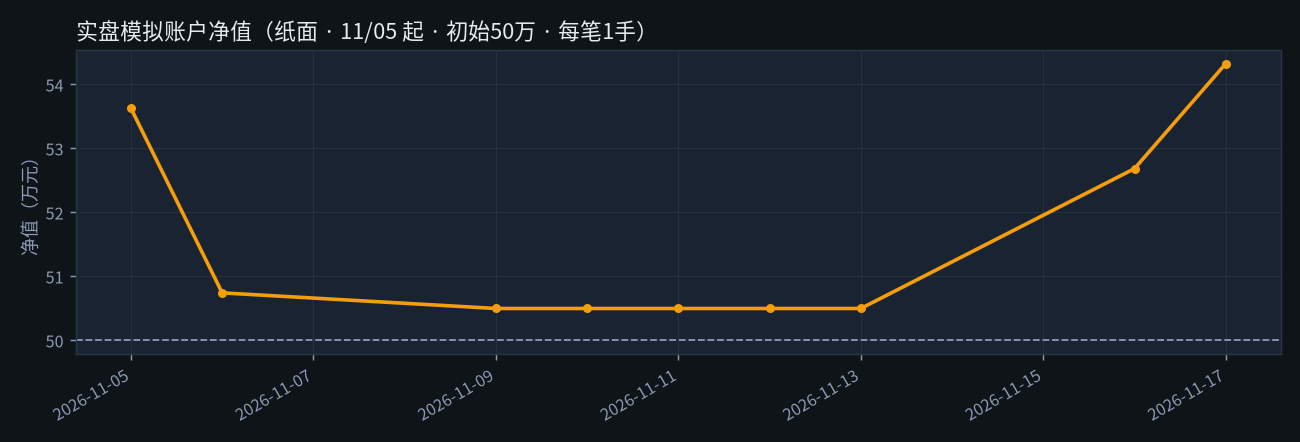
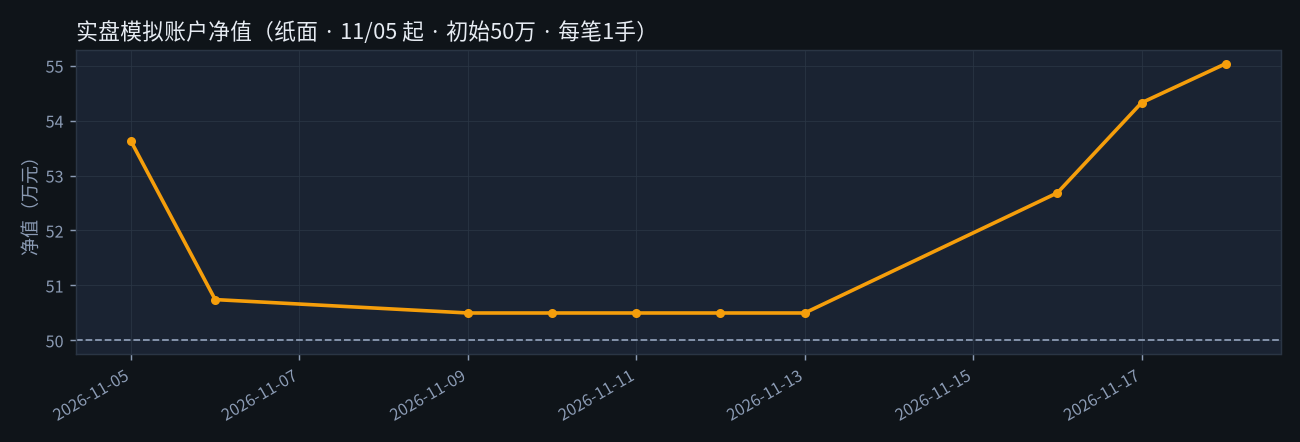
daily: 2026-11-18

diff --git a/reports/2026-11-18.html b/reports/2026-11-18.html
@@ -1,0 +1,182 @@
+<!doctype html>
+<html lang="zh-CN"><head><meta charset="utf-8"><meta name="viewport" content="width=device-width,initial-scale=1">
+<title>2026-11-18 · 股指期货量化系统每日复盘</title>
+<style>:root{
+  --bg:#0f1419;--card:#1a2332;--border:#2a3544;--text:#e7ecf3;--muted:#8b9bb4;
+  --accent:#3b82f6;--ok:#22c55e;--ok-bg:#12261c;--ok-bd:#1e4d36;
+  --watch:#f59e0b;--watch-bg:#2a2110;--watch-bd:#5c4518;
+  --danger:#ef4444;--table-head:#151c27;
+}
+*{box-sizing:border-box}
+body{
+  margin:0;font-family:-apple-system,BlinkMacSystemFont,"Segoe UI","PingFang SC","Hiragino Sans GB","Microsoft YaHei",sans-serif;
+  background:var(--bg);color:var(--text);line-height:1.65;font-size:15.5px;
+}
+.wrap{max-width:820px;margin:0 auto;padding:24px 16px 56px}
+a{color:var(--accent)}
+.topnav{margin-bottom:18px;font-size:.9rem}
+.topnav a{text-decoration:none}
+header h1{font-size:1.45rem;margin:0 0 6px;font-weight:700}
+header .sub{color:var(--muted);margin:0 0 14px;font-size:.92rem}
+.badge{
+  display:inline-block;padding:3px 10px;border-radius:999px;font-size:.78rem;font-weight:650;
+  background:#1e3a5f;color:#93c5fd;margin-right:6px;
+}
+.disclaimer{
+  padding:12px 14px;border:1px solid var(--border);border-radius:10px;
+  background:#151c27;color:var(--muted);font-size:.88rem;margin-bottom:28px;
+}
+h2{
+  font-size:1.12rem;margin:32px 0 12px;padding-bottom:8px;
+  border-bottom:1px solid var(--border);font-weight:700;
+}
+h3{font-size:1rem;margin:20px 0 10px;font-weight:650}
+p,li{color:var(--text)}
+.muted{color:var(--muted)}
+.lead{font-size:.98rem;margin:0 0 16px}
+table{
+  width:100%;border-collapse:collapse;font-size:.9rem;margin:10px 0 16px;
+  background:var(--card);border-radius:10px;overflow:hidden;border:1px solid var(--border);
+}
+th,td{padding:10px 12px;text-align:left;border-bottom:1px solid var(--border);vertical-align:top}
+th{background:var(--table-head);color:var(--muted);font-weight:600;white-space:nowrap}
+tr:last-child td{border-bottom:none}
+td.num,th.num{text-align:right;font-variant-numeric:tabular-nums}
+.chart{
+  display:block;width:100%;max-width:100%;height:auto;border-radius:12px;
+  border:1px solid var(--border);margin:12px 0 8px;background:#111;
+}
+.cap{font-size:.8rem;color:var(--muted);margin:0 0 18px}
+.grid{display:grid;gap:14px}
+@media(min-width:640px){.grid-2{grid-template-columns:1fr 1fr}}
+.cmd{
+  border-radius:14px;padding:16px 16px 14px;border:1px solid var(--border);
+  background:var(--card);margin-bottom:14px;
+}
+.cmd.open{border-color:var(--ok-bd);background:linear-gradient(180deg,var(--ok-bg),var(--card))}
+.cmd.watch{border-color:var(--watch-bd);background:linear-gradient(180deg,var(--watch-bg),var(--card))}
+.cmd .head{display:flex;flex-wrap:wrap;align-items:center;gap:8px;margin-bottom:10px}
+.cmd .name{font-size:1.05rem;font-weight:700;margin:0}
+.pill{
+  font-size:.72rem;font-weight:700;padding:3px 8px;border-radius:999px;letter-spacing:.02em;
+}
+.pill.open{background:#14532d;color:#86efac}
+.pill.watch{background:#78350f;color:#fcd34d}
+.pill.alt{background:#1e3a5f;color:#93c5fd}
+.kv{width:100%;border:none;background:transparent;margin:0}
+.kv th,.kv td{border:none;border-bottom:1px dashed #2a3544;padding:8px 0;background:transparent}
+.kv th{width:5.5em;color:var(--muted);font-weight:600}
+.kv tr:last-child th,.kv tr:last-child td{border-bottom:none}
+.rules{
+  padding:14px 16px;border-radius:12px;border:1px solid var(--border);
+  background:var(--card);margin:10px 0;
+}
+.rules ul{margin:8px 0 0;padding-left:1.2em}
+.rules li{margin:6px 0}
+.evidence{
+  padding:14px 16px;border-radius:12px;border:1px solid #1e3a5f;
+  background:#121a28;margin:12px 0 18px;
+}
+.evidence h3{margin-top:0}
+footer{margin-top:36px;padding-top:14px;border-top:1px solid var(--border);color:var(--muted);font-size:.8rem}
+.strong{font-weight:650;color:#fff}
+.list{display:flex;flex-direction:column;gap:12px}
+.card{display:block;padding:16px 18px;border:1px solid var(--border);border-radius:12px;background:var(--card);text-decoration:none;color:inherit}
+.card:hover{border-color:var(--accent)}
+.card .date{font-size:.82rem;color:var(--accent);font-weight:600;margin-bottom:4px}
+.card .title{font-size:1.05rem;font-weight:650;margin:0 0 6px;border:none;padding:0}
+.card .meta{font-size:.88rem;color:var(--muted);margin:0}
+.tag{display:inline-block;font-size:.72rem;padding:2px 8px;border-radius:999px;background:#1e3a2f;color:#86efac;margin-left:8px}
+table{display:table}
+@media(max-width:600px){table{font-size:.82rem}th,td{padding:8px 6px}}
+</style></head><body><div class="wrap">
+<div class="topnav"><a href="../index.html">← 复盘首页</a></div>
+<header><h1>股指期货量化系统 · 每日复盘</h1>
+<p class="sub">交易日 <strong>2026-11-18（周三）</strong> · 下一交易日 <strong>2026-11-19（周四）</strong></p>
+<span class="badge">主策略 PF-K（IM）</span><span class="badge">纸面模拟账户运行中</span></header>
+<div class="disclaimer"><strong>免责声明</strong>：独立量化系统的研究复盘，仅供参考学习，不构成投资建议，不代下单。期货有杠杆，可能亏损超过预期，行动与盈亏由你本人承担。</div>
+
+<div class="cmd watch"><div class="head"><span class="pill watch">明日指令</span><h3 class="name">明天（2026-11-19（周四））不动，空仓观望</h3></div>
+<table class="kv"><tbody><tr><th>原因</th><td>今天的 zSAS = -0.34，没到 ±1.25 的触发线</td></tr></tbody></table></div>
+
+<h2>一、今天发生了什么</h2>
+<p class="lead">IM（中证1000股指期货主连）今天开 6060.0、最高 6098.0、最低 5915.0、收 <strong>5987.4</strong>，
+比昨天收盘 6023.0 <strong>跌 35.6 点（-0.59%）</strong>。开盘相对昨收 高开 37.0 点，盘中震荡走低，收阴线。</p>
+<div class="rules"><ul><li>今天平掉一笔空单（11-16 开 6215.0 → 今天 5987.4，时间退出），费后 +226.9 点 ≈ +45,384 元/手。</li></ul></div>
+<img class="chart" src="../assets/2026-11-18/im_price_z.png" alt="IM 近100日K线与zSAS">
+<p class="cap">上：IM 近 100 个交易日 K 线和系统历史开平仓点；下：每日 zSAS，越过虚线就出信号。</p>
+
+<h2>二、为什么出这个信号（白话版）</h2>
+<p>今天收盘后算出 <strong>zSAS = -0.34</strong>，在 ±1.25 之间，不触发。</p>
+<div class="rules"><ul>
+<li><b>它在看什么</b>：今天这根K线的涨跌，相对「平时一天能波动多少」（ATR）有多猛；同时扣掉「开盘跳空」那部分——靠隔夜跳空涨上去的不算数，盘中一路买上去的才算。</li>
+<li><b>怎么算</b>：SAS = 0.55 × 今日涨跌幅/ATR比例 − 0.35 × 异常跳空；再和过去 60 天比，变成 zSAS（高出平时几个标准差）。</li>
+<li><b>怎么用</b>：zSAS ≥ +1.25 → 今天涨得「比平常猛得多」且不是靠跳空 → 系统认为短期惯性会延续，次日开盘做多；≤ −1.25 反过来做空；中间不动。</li>
+<li><b>今天</b>：开盘只高开 37.0 点，涨幅主要是盘中走出来的，所以 zSAS 很高。</li>
+</ul></div>
+
+<h2>三、明天具体怎么挂单</h2>
+<p>规则只有一条：<b>次日开盘价成交</b>。所以明早 9:25 集合竞价或 9:30 开盘用市价/对价跟进即可；止损价按你的<b>实际成交价</b>算。</p>
+<p class="muted">明天没有新开仓指令。</p>
+<div class="evidence"><h3>执行提醒（执行建议，未回测）</h3><ul>
+<li>只在开盘这一刻跟；<b>开盘没成交就放弃本笔，不在盘中追高/追低挂天价单</b>。回测只验证过「开盘价成交」。</li>
+<li>止损单可在成交后立刻挂条件单（多单：最新价 ≤ 止损价 触发卖出平仓）。若开盘就跳空越过止损，按开盘价离场（回测同样处理）。</li>
+<li>第3天收盘前没止损，就在尾盘平掉；中间不加仓、不移动止损。</li>
+</ul></div>
+
+<h2>四、实盘模拟账户（11/5起）<span class="sub" style="font-size:.8em;font-weight:400"> · 纸面记账 · 初始50万 · 每笔1手</span></h2>
+<img class="chart" src="../assets/2026-11-18/ledger.png" alt="纸面账户净值曲线">
+<table><tbody>
+<tr><td>当前净值</td><td class="num"><strong>550,365 元</strong></td><td>收益率 <strong>+10.07%</strong> · 最大回撤 -5.83%</td></tr>
+<tr><td>已实现 / 浮动盈亏</td><td class="num">+50,365 / +0 元</td><td>已平仓 2 笔 · 胜率 100% · 已付费用滑点约 275 元</td></tr>
+</tbody></table>
+<table><thead><tr><th>状态</th><th>方向</th><th>开仓日/价</th><th>平仓日/价</th><th class="num">费用滑点(点)</th><th class="num">净盈亏(元)</th><th>说明</th></tr></thead><tbody>
+<tr><td>已平仓</td><td>多</td><td>2026-11-05 / 6423.0</td><td>2026-11-09 / 6448.6</td><td class="num">0.7</td><td class="num">+4,981</td><td>时间退出</td></tr>
+<tr><td>已平仓</td><td>空</td><td>2026-11-16 / 6215.0</td><td>2026-11-18 / 5987.4</td><td class="num">0.7</td><td class="num">+45,384</td><td>时间退出</td></tr>
+</tbody></table>
+<p class="cap">口径：只跟主策略 PF-K（IM，每笔 1 手）。成交价=日线开盘价/止损价/第3天收盘价；费用=开·平昨万0.23（平今万2.3）+ 往返滑点0.4点；持仓中的浮盈已预扣平仓费用。纸面记账，非真实成交。</p>
+
+<h2>五、历史成绩（样本外，费后）</h2>
+<img class="chart" src="../assets/2026-11-18/oos_equity.png" alt="样本外权益 vs 中证1000">
+<p class="cap">「样本外」= 2025-06-03 之后的数据，参数是在那之前就定死的，这段相当于「模拟实战」。图为 2手/100万 口径累计收益率，对比同期中证1000指数。</p>
+
+<table><thead><tr><th>指标（样本外 2025-06-03 → 2026-11-18，费后）</th><th class="num">回测口径 2手/100万</th><th class="num">重算 1手/50万</th></tr></thead><tbody>
+<tr><td>交易笔数 / 胜率</td><td class="num">46 笔 / 63.0%</td><td class="num">46 笔 / 63.0%</td></tr>
+<tr><td>累计盈利</td><td class="num">+58.0 万元</td><td class="num">+29.0 万元</td></tr>
+<tr><td>策略年化（单利口径）</td><td class="num">+39.8%</td><td class="num">+39.8%</td></tr>
+<tr><td>中证1000 同期年化</td><td class="num">-0.2%</td><td class="num">-0.2%</td></tr>
+<tr><td><strong>超额年化</strong>（策略−指数）</td><td class="num"><strong>+40.0%</strong></td><td class="num">+40.0%</td></tr>
+<tr><td>2025年（6/3起）：策略 / 指数 / 超额</td><td class="num" colspan="2">+33.6% / +25.1% / +8.4%</td></tr>
+<tr><td>2026年至今：策略 / 指数 / 超额</td><td class="num" colspan="2">+24.5% / -21.9% / +46.4%</td></tr>
+</tbody></table>
+<p class="cap">「1手/50万」是把同一批成交按 1 手、50万本金重算：金额减半、收益率相同（因为仓位和本金同比例缩小）。年化=总收益÷年数（单利）。
+数字由冻结参数实时重算。与存档 summary.json（2026-11-04）对照：存档 44 笔 / 胜率 61.4% / 超额年化 28.64%。</p>
+
+<h2>六、风险提示</h2>
+<div class="rules"><ul>
+<li><b>历史 ≠ 未来</b>：样本外只有 46 笔，统计上仍偏薄；任何一段连亏都可能发生。</li>
+<li><b>参数偏脆</b>：持有天数只有 H≈3 天附近站得住，邻域诊断里：持有 2 天时超额年化只剩约 +3%~+4%；持有 4–5 天虽然总数更好看，但 2025 年行情上涨段会明显跑输指数（攻防不再两全）。12 个邻近参数里只有 H=3 的 3 格「攻防两全」——所以严格按 3 天执行，不要自作主张拿更久或更短。</li>
+<li><b>单笔最大亏损</b>：止损 1.5×ATR = 322.2 点 × 200 元/点 ≈ <b>6.4 万元/手</b>（另加费用滑点；跳空越过止损时会更多）。50万账户单笔最坏约 12.9%。</li>
+<li>IM 一手合约价值约 120 万元（价格×200），保证金只占其中一部分，杠杆高，账户资金要留足以免被强平。</li>
+<li>不叠加：持仓期间出现的新信号不接；平仓当天出现的信号也不接（与回测一致）。</li>
+</ul></div>
+
+
+<h2>附：卫星策略 PF-K-IC（中证500股指期货 IC）</h2>
+<div class="rules"><p style="margin:0">同一套指标用在 IC 上，但参数单独冻结：阈值 ±1.5、止损 1.5×ATR、最多拿 5 天。<b>不计入上面的纸面模拟账户</b>，仅供对照。</p>
+<p style="margin:8px 0 0">今日 IC 收 6194.0（-0.8 点）。持空中：2026-11-16 开 6356.0，止损 6664.2，最晚 2026-11-20（周五） 收盘前平。</p>
+<p class="cap" style="margin:8px 0 0">样本外（2手/100万口径）：30 笔，胜率 60.0%，超额年化 vs 中证500 +22.1%。</p></div>
+
+<h2>七、术语小词典</h2>
+<table><tbody>
+<tr><td>ATR</td><td>平均真实波幅（14日），代表「这个品种平时一天大概波动多少点」。今天用于止损的 ATR = 214.8 点。</td></tr>
+<tr><td>zSAS</td><td>系统的核心指标：今天「盘中走出来的涨跌」比过去 60 天平均水平高出几个标准差。±1.25 是开仓线。</td></tr>
+<tr><td>样本外</td><td>定参数时没用过的数据。在样本外还能赚钱，才说明不是「拟合历史」。本系统切点 2025-06-03。</td></tr>
+<tr><td>止损</td><td>预先定好的认错价格，价格碰到就平仓离场，控制单笔最大亏损。</td></tr>
+<tr><td>对价</td><td>买入挂卖一价、卖出挂买一价，保证立刻成交。</td></tr>
+</tbody></table>
+
+<h2>数据与缺口</h2>
+<ul class="muted"><li>今日无数据缺口。</li><li>数据：IM0/IC0 主连日线（v2/*_raw.csv）、中证1000/500 指数日线；参数冻结 PF-K_q1.25_s1.5_RNone_H3 / PF-K-IC_q1.5_s1.5_RNone_H5，未调参。</li></ul>
+<footer>生成：2026-11-18 15:44（北京时间）· 仓库 nandawys/index-quant · 研究参考，不代下单</footer>
+</div></body></html>

diff --git a/index.html b/index.html
@@ -96,16 +96,17 @@ table{display:table}
 <h2>实盘模拟账户（11/5起）<span class="sub" style="font-size:.8em;font-weight:400"> · 纸面记账 · 初始50万 · 每笔1手</span></h2>
 <img class="chart" src="assets/ledger_latest.png" alt="纸面账户净值曲线">
 <table><tbody>
-<tr><td>当前净值</td><td class="num"><strong>543,245 元</strong></td><td>收益率 <strong>+8.65%</strong> · 最大回撤 -5.83%</td></tr>
-<tr><td>已实现 / 浮动盈亏</td><td class="num">+4,981 / +38,264 元</td><td>已平仓 1 笔 · 胜率 100% · 已付费用滑点约 139 元</td></tr>
+<tr><td>当前净值</td><td class="num"><strong>550,365 元</strong></td><td>收益率 <strong>+10.07%</strong> · 最大回撤 -5.83%</td></tr>
+<tr><td>已实现 / 浮动盈亏</td><td class="num">+50,365 / +0 元</td><td>已平仓 2 笔 · 胜率 100% · 已付费用滑点约 275 元</td></tr>
 </tbody></table>
 <table><thead><tr><th>状态</th><th>方向</th><th>开仓日/价</th><th>平仓日/价</th><th class="num">费用滑点(点)</th><th class="num">净盈亏(元)</th><th>说明</th></tr></thead><tbody>
 <tr><td>已平仓</td><td>多</td><td>2026-11-05 / 6423.0</td><td>2026-11-09 / 6448.6</td><td class="num">0.7</td><td class="num">+4,981</td><td>时间退出</td></tr>
-<tr><td>持仓中</td><td>空</td><td>2026-11-16 / 6215.0</td><td>未平（今收 6023.0，止损 6537.2）</td><td class="num">0.7</td><td class="num">+38,264</td><td>已持2天/最多3天</td></tr>
+<tr><td>已平仓</td><td>空</td><td>2026-11-16 / 6215.0</td><td>2026-11-18 / 5987.4</td><td class="num">0.7</td><td class="num">+45,384</td><td>时间退出</td></tr>
 </tbody></table>
 <p class="cap">口径：只跟主策略 PF-K（IM，每笔 1 手）。成交价=日线开盘价/止损价/第3天收盘价；费用=开·平昨万0.23（平今万2.3）+ 往返滑点0.4点；持仓中的浮盈已预扣平仓费用。纸面记账，非真实成交。</p>
 <h2>每日复盘</h2>
-<nav class="list" aria-label="复盘列表"><a class="card" href="reports/2026-11-17.html"><div class="date">2026-11-17（周二）<span class="tag">最新</span></div><h2 class="title">持空中 · 止损 6537.2</h2><p class="meta">IM 收 6023.0（-82.0）· zSAS -0.40 · 账户净值 54.32 万</p></a>
+<nav class="list" aria-label="复盘列表"><a class="card" href="reports/2026-11-18.html"><div class="date">2026-11-18（周三）<span class="tag">最新</span></div><h2 class="title">明日不动 · 空仓观望</h2><p class="meta">IM 收 5987.4（-35.6）· zSAS -0.34 · 账户净值 55.04 万</p></a>
+<a class="card" href="reports/2026-11-17.html"><div class="date">2026-11-17（周二）</div><h2 class="title">持空中 · 止损 6537.2</h2><p class="meta">IM 收 6023.0（-82.0）· zSAS -0.40 · 账户净值 54.32 万</p></a>
 <a class="card" href="reports/2026-11-16.html"><div class="date">2026-11-16（周一）</div><h2 class="title">持空中 · 止损 6537.2</h2><p class="meta">IM 收 6105.0（-171.8）· zSAS -0.89 · 账户净值 52.68 万</p></a>
 <a class="card" href="reports/2026-11-13.html"><div class="date">2026-11-13（周五）</div><h2 class="title">明日开空1手 IM · 止损=成交价+322.2</h2><p class="meta">IM 收 6276.8（-203.6）· zSAS -1.71 · 账户净值 50.50 万</p></a>
 <a class="card" href="reports/2026-11-12.html"><div class="date">2026-11-12（周四）</div><h2 class="title">明日不动 · 空仓观望</h2><p class="meta">IM 收 6480.4（-142.6）· zSAS -0.97 · 账户净值 50.50 万</p></a>
